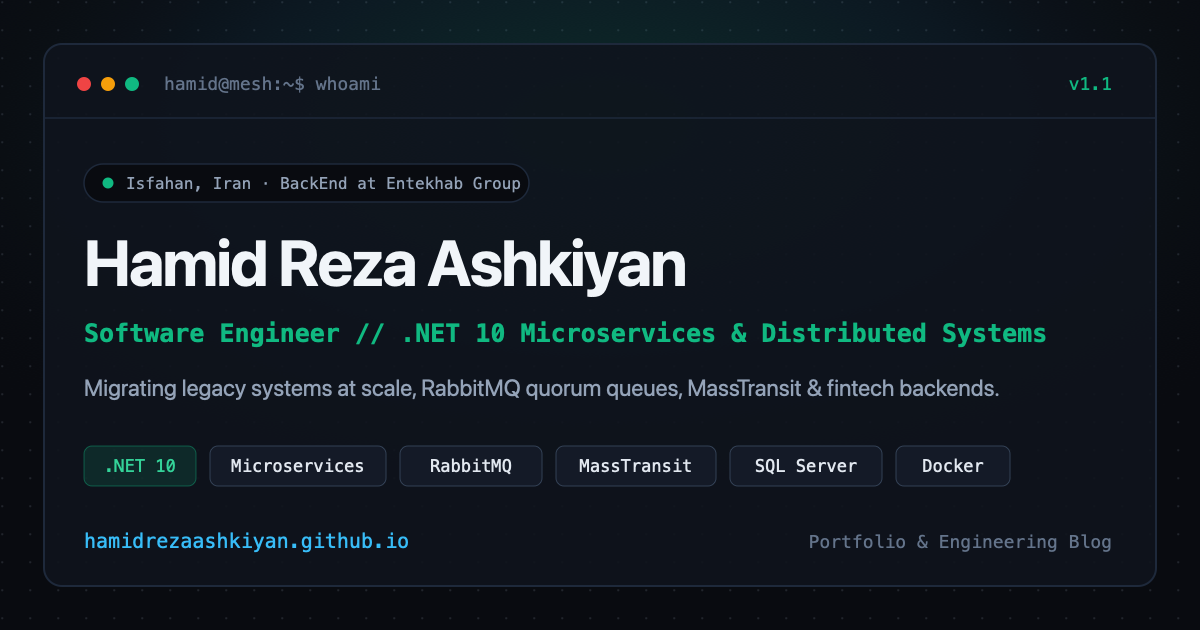
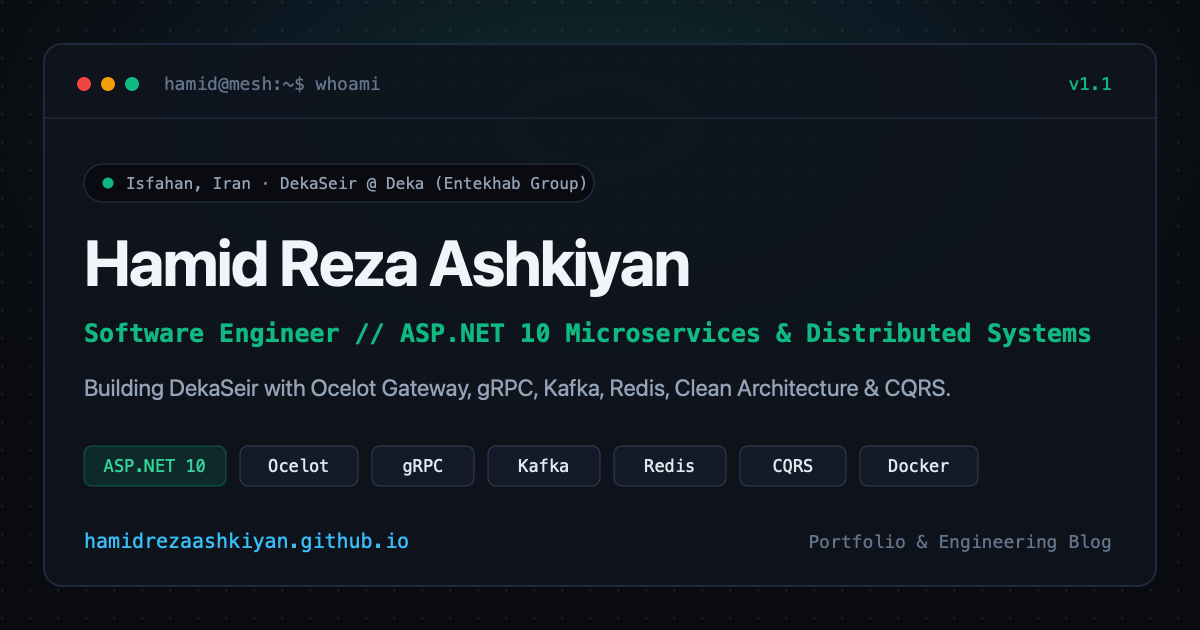
feat: add DekaSeir platform at Deka (Entekhab Group) with Ocelot, gRPC, Kafka, Redis, ASP.NET 10

diff --git a/index.html b/index.html
@@ -36,7 +36,7 @@
     },
     "worksFor": {
       "@type": "Organization",
-      "name": "Entekhab Group"
+      "name": "Deka (Entekhab Group)"
     },
     "alumniOf": {
       "@type": "CollegeOrUniversity",
@@ -48,8 +48,9 @@
       "https://t.me/HamidRezaAshkiyan"
     ],
     "knowsAbout": [
-      ".NET 10", ".NET", "C#", "Microservices", "Domain-Driven Design", "Clean Architecture",
-      "MediatR", "MassTransit", "RabbitMQ", "SQL Server", "Hangfire", "Docker", "Rust"
+      "ASP.NET 10", ".NET", "C#", "Microservices", "Ocelot", "gRPC", "Kafka", "Redis",
+      "CQRS", "Domain-Driven Design", "Clean Architecture", "MediatR", "MassTransit",
+      "RabbitMQ", "SQL Server", "Hangfire", "Docker", "Rust"
     ]
   }
   </script>
@@ -122,15 +123,15 @@
               <div class="hero-avatar" aria-hidden="true">HRA</div>
               <div class="status-pill">
                 <span class="status-dot" aria-hidden="true"></span>
-                <span>Isfahan, Iran · BackEnd Developer at Entekhab Group</span>
+                <span>Isfahan, Iran · Building DekaSeir at Deka (Entekhab Group)</span>
               </div>
             </div>
 
             <h1 class="hero-title">Hamid Reza Ashkiyan</h1>
-            <div class="hero-role">Software Engineer // .NET 10 Microservices &amp; Distributed Systems</div>
+            <div class="hero-role">Software Engineer // ASP.NET 10 Microservices &amp; Distributed Systems</div>
 
             <p class="hero-summary">
-              Specialized in <strong>.NET microservices at scale</strong>, with hands-on experience migrating 15+ legacy services, upgrading high-reliability <strong>RabbitMQ</strong> messaging infrastructure, and integrating <strong>fintech payment gateways</strong> in high-traffic platforms.
+              Currently building the <strong>DekaSeir</strong> microservices platform at <strong>Deka (Entekhab Group)</strong> using <strong>ASP.NET 10</strong>, <strong>Ocelot Gateway</strong>, <strong>gRPC</strong>, <strong>Kafka</strong>, <strong>Redis</strong>, <strong>Clean Architecture</strong>, and <strong>CQRS</strong> — backed by 8+ years of production backend &amp; distributed systems engineering.
             </p>
 
             <blockquote class="hero-quote">
@@ -171,13 +172,13 @@
               </div>
               <pre class="json-output"><code>{
   <span class="json-key">"name"</span>: <span class="json-str">"Hamid Reza Ashkiyan"</span>,
-  <span class="json-key">"role"</span>: <span class="json-str">"BackEnd Developer at Entekhab Group"</span>,
+  <span class="json-key">"role"</span>: <span class="json-str">"BackEnd Developer at Deka (Entekhab Group)"</span>,
+  <span class="json-key">"platform"</span>: <span class="json-str">"DekaSeir (ASP.NET 10 Microservices)"</span>,
   <span class="json-key">"location"</span>: <span class="json-str">"Isfahan, Iran"</span>,
-  <span class="json-key">"backend"</span>: [<span class="json-arr">".NET 10"</span>, <span class="json-arr">"C#"</span>, <span class="json-arr">"DDD"</span>, <span class="json-arr">"Clean Arch"</span>, <span class="json-arr">"MediatR"</span>, <span class="json-arr">"Hangfire"</span>],
-  <span class="json-key">"messaging"</span>: [<span class="json-arr">"RabbitMQ Quorum Queues"</span>, <span class="json-arr">"MassTransit"</span>],
-  <span class="json-key">"data"</span>: [<span class="json-arr">"SQL Server"</span>, <span class="json-arr">"PostgreSQL"</span>, <span class="json-arr">"Redis"</span>],
-  <span class="json-key">"devops"</span>: [<span class="json-arr">"Docker"</span>, <span class="json-arr">"Git"</span>],
-  <span class="json-key">"interests"</span>: [<span class="json-arr">"AI/LLM (Ollama, OpenClaw)"</span>, <span class="json-arr">"Open Source"</span>, <span class="json-arr">"Automation"</span>]
+  <span class="json-key">"backend"</span>: [<span class="json-arr">"ASP.NET 10"</span>, <span class="json-arr">"Ocelot"</span>, <span class="json-arr">"gRPC"</span>, <span class="json-arr">"Clean Arch"</span>, <span class="json-arr">"CQRS"</span>, <span class="json-arr">"DDD"</span>],
+  <span class="json-key">"messaging"</span>: [<span class="json-arr">"Kafka"</span>, <span class="json-arr">"RabbitMQ Quorum"</span>, <span class="json-arr">"MassTransit"</span>],
+  <span class="json-key">"data"</span>: [<span class="json-arr">"SQL Server"</span>, <span class="json-arr">"Redis"</span>, <span class="json-arr">"PostgreSQL"</span>],
+  <span class="json-key">"devops"</span>: [<span class="json-arr">"Docker"</span>, <span class="json-arr">"Git"</span>]
 }</code></pre>
             </div>
           </div>
@@ -217,13 +218,13 @@
         </div>
 
         <div class="timeline">
-          <!-- Entekhab Group -->
+          <!-- Deka / Entekhab Group -->
           <article class="timeline-item current spotlight-card" data-reveal>
             <span class="timeline-dot" aria-hidden="true"></span>
             <div class="exp-header">
               <div>
-                <h3 class="exp-role">BackEnd Developer</h3>
-                <div class="exp-company">Entekhab Group · Isfahan</div>
+                <h3 class="exp-role">BackEnd Developer — DekaSeir Platform</h3>
+                <div class="exp-company">Deka (Sub-brand of Entekhab Group) · Isfahan</div>
               </div>
               <div class="exp-meta">
                 <span class="exp-badge">Current</span>
@@ -231,16 +232,20 @@
               </div>
             </div>
             <ul class="exp-bullets">
-              <li>Designing and scaling distributed backend services and REST APIs using <strong>.NET 10</strong>, <strong>DDD</strong>, and <strong>Clean Architecture</strong>.</li>
-              <li>Building resilient event-driven workflows and high-throughput data pipelines across enterprise systems.</li>
+              <li>Building <strong>DekaSeir</strong>, a distributed <strong>ASP.NET 10</strong> microservices platform fronted by an <strong>Ocelot API Gateway</strong>.</li>
+              <li>Architecting services with <strong>Clean Architecture</strong> and <strong>CQRS</strong>, using <strong>gRPC</strong> for low-latency inter-service communication, <strong>Kafka</strong> for event streaming, and <strong>Redis</strong> for distributed caching.</li>
+              <li>Owning ongoing codebase health, database maintenance, and production reliability across core services.</li>
+              <li>Collaborating closely with cross-functional teams — including the <strong>DevOps</strong> team and <strong>Identity Service</strong> team — to keep all services resilient, integrated, and running smoothly.</li>
             </ul>
             <div class="tag-row">
-              <span class="tech-tag accent">.NET 10</span>
-              <span class="tech-tag accent">Microservices</span>
-              <span class="tech-tag">DDD</span>
+              <span class="tech-tag accent">ASP.NET 10</span>
+              <span class="tech-tag accent">Ocelot Gateway</span>
+              <span class="tech-tag accent">gRPC</span>
+              <span class="tech-tag accent">Kafka</span>
+              <span class="tech-tag">Redis</span>
               <span class="tech-tag">Clean Architecture</span>
-              <span class="tech-tag">SQL Server</span>
-              <span class="tech-tag">Docker</span>
+              <span class="tech-tag">CQRS</span>
+              <span class="tech-tag">Microservices</span>
             </div>
           </article>
 
@@ -403,16 +408,16 @@
             </div>
             <p>High-throughput APIs, domain modeling, and long-lived modular codebases.</p>
             <div class="tag-row">
-              <span class="tech-tag accent">.NET 10 / .NET</span>
+              <span class="tech-tag accent">ASP.NET 10 / .NET</span>
               <span class="tech-tag accent">C#</span>
-              <span class="tech-tag">ASP.NET Core</span>
+              <span class="tech-tag accent">Ocelot Gateway</span>
+              <span class="tech-tag accent">gRPC</span>
               <span class="tech-tag">Microservices</span>
-              <span class="tech-tag">DDD</span>
               <span class="tech-tag">Clean Architecture</span>
-              <span class="tech-tag">MediatR</span>
+              <span class="tech-tag">CQRS &amp; MediatR</span>
+              <span class="tech-tag">DDD</span>
               <span class="tech-tag">Hangfire</span>
-              <span class="tech-tag">EF Core</span>
-              <span class="tech-tag">Dapper</span>
+              <span class="tech-tag">EF Core / Dapper</span>
             </div>
           </div>
 
@@ -421,14 +426,14 @@
               <h3>Data &amp; Messaging</h3>
               <span class="p-num">02</span>
             </div>
-            <p>Fault-tolerant event pipelines, atomic persistence, and query optimization.</p>
+            <p>Fault-tolerant event streaming, atomic persistence, distributed caching, and query optimization.</p>
             <div class="tag-row">
+              <span class="tech-tag accent">Kafka</span>
+              <span class="tech-tag accent">Redis</span>
               <span class="tech-tag accent">SQL Server</span>
-              <span class="tech-tag accent">RabbitMQ (Quorum)</span>
-              <span class="tech-tag accent">MassTransit</span>
+              <span class="tech-tag">RabbitMQ (Quorum)</span>
+              <span class="tech-tag">MassTransit</span>
               <span class="tech-tag">PostgreSQL</span>
-              <span class="tech-tag">Redis</span>
-              <span class="tech-tag">Stored Procedures</span>
               <span class="tech-tag">Transactional Outbox</span>
               <span class="tech-tag">Idempotent Inbox</span>
             </div>
@@ -479,7 +484,7 @@
           <div>
             <span class="section-tag">// 04. System Blueprint</span>
             <h2 class="section-title">Production Microservices Topology</h2>
-            <p class="section-desc">Interactive blueprint of how services coordinate reliably across .NET 10, SQL Server, MassTransit, RabbitMQ Quorum Queues, and Hangfire.</p>
+            <p class="section-desc">Interactive blueprint of how services coordinate across Ocelot Gateway, ASP.NET 10, gRPC, Kafka / RabbitMQ, Redis, and relational storage.</p>
           </div>
         </div>
 
@@ -507,54 +512,54 @@
             <path d="M 530 190 L 530 282 L 675 282" fill="none" stroke="#475569" stroke-width="1.5" class="flow-line-slow" marker-end="url(#arr-green)"/>
 
             <!-- Node 1: Gateway -->
-            <g class="arch-node" tabindex="0" data-title="API Gateway &amp; Edge" data-detail="TLS termination, rate limiting, W3C TraceContext injection, and routing to .NET 10 services.">
+            <g class="arch-node" tabindex="0" data-title="Ocelot API Gateway" data-detail="Unified edge routing, TLS termination, rate limiting, and request aggregation across ASP.NET 10 microservices.">
               <rect x="20" y="115" width="135" height="72" rx="8" fill="url(#nodeGrad)" stroke="#334155" stroke-width="1.4"/>
-              <text x="87" y="146" fill="#f1f5f9" font-family="'JetBrains Mono', monospace" font-size="12" text-anchor="middle" font-weight="600">API Gateway</text>
-              <text x="87" y="166" fill="#64748b" font-family="'JetBrains Mono', monospace" font-size="10" text-anchor="middle">TLS / Rate Limit</text>
+              <text x="87" y="146" fill="#f1f5f9" font-family="'JetBrains Mono', monospace" font-size="12" text-anchor="middle" font-weight="600">Ocelot Gateway</text>
+              <text x="87" y="166" fill="#64748b" font-family="'JetBrains Mono', monospace" font-size="10" text-anchor="middle">Routing / Rate Limit</text>
             </g>
 
             <!-- Node 2: Auth -->
-            <g class="arch-node" tabindex="0" data-title="Auth &amp; Identity" data-detail="OpenID Connect / JWT token validation with Keycloak and fine-grained role policies.">
+            <g class="arch-node" tabindex="0" data-title="Identity Service" data-detail="Centralized OIDC / JWT authentication and authorization coordinated with the Identity Service team.">
               <rect x="208" y="24" width="170" height="68" rx="8" fill="url(#nodeGrad)" stroke="#334155" stroke-width="1.4"/>
-              <text x="293" y="54" fill="#f1f5f9" font-family="'JetBrains Mono', monospace" font-size="12" text-anchor="middle" font-weight="600">Auth &amp; Identity</text>
-              <text x="293" y="73" fill="#38bdf8" font-family="'JetBrains Mono', monospace" font-size="10" text-anchor="middle">Keycloak / OIDC JWT</text>
+              <text x="293" y="54" fill="#f1f5f9" font-family="'JetBrains Mono', monospace" font-size="12" text-anchor="middle" font-weight="600">Identity Service</text>
+              <text x="293" y="73" fill="#38bdf8" font-family="'JetBrains Mono', monospace" font-size="10" text-anchor="middle">OIDC / JWT Auth</text>
             </g>
 
-            <!-- Node 3: Core .NET 10 Service -->
-            <g class="arch-node active" tabindex="0" data-title=".NET 10 Service (MediatR / DDD)" data-detail="Clean Architecture boundaries with DDD aggregates, CQRS command handlers, and Hangfire scheduled jobs.">
+            <!-- Node 3: Core ASP.NET 10 Service -->
+            <g class="arch-node active" tabindex="0" data-title="ASP.NET 10 Service (CQRS / Clean Arch)" data-detail="Clean Architecture boundaries with CQRS handlers, Redis caching, and gRPC endpoints for fast internal calls.">
               <rect x="208" y="180" width="172" height="86" rx="8" fill="url(#nodeGrad)" stroke="#10b981" stroke-width="1.6"/>
-              <text x="294" y="210" fill="#10b981" font-family="'JetBrains Mono', monospace" font-size="12" text-anchor="middle" font-weight="600">.NET 10 Service</text>
-              <text x="294" y="229" fill="#94a3b8" font-family="'JetBrains Mono', monospace" font-size="10" text-anchor="middle">DDD · Clean Arch · MediatR</text>
-              <text x="294" y="247" fill="#64748b" font-family="'JetBrains Mono', monospace" font-size="9.5" text-anchor="middle">Hangfire Background Jobs</text>
+              <text x="294" y="210" fill="#10b981" font-family="'JetBrains Mono', monospace" font-size="12" text-anchor="middle" font-weight="600">ASP.NET 10 Service</text>
+              <text x="294" y="229" fill="#94a3b8" font-family="'JetBrains Mono', monospace" font-size="10" text-anchor="middle">Clean Arch · CQRS · gRPC</text>
+              <text x="294" y="247" fill="#64748b" font-family="'JetBrains Mono', monospace" font-size="9.5" text-anchor="middle">Redis Cache · Hangfire</text>
             </g>
 
-            <!-- Node 4: MassTransit + RabbitMQ -->
-            <g class="arch-node" tabindex="0" data-title="MassTransit + RabbitMQ Quorum Queues" data-detail="Raft-replicated quorum queues for fault tolerance, automatic retries, and dead-letter handling.">
+            <!-- Node 4: Event Broker -->
+            <g class="arch-node" tabindex="0" data-title="Kafka &amp; RabbitMQ Event Bus" data-detail="High-throughput Kafka streams and Raft-replicated RabbitMQ quorum queues for fault-tolerant asynchronous messaging.">
               <rect x="438" y="108" width="188" height="82" rx="8" fill="url(#nodeGrad)" stroke="#38bdf8" stroke-width="1.6"/>
-              <text x="532" y="138" fill="#38bdf8" font-family="'JetBrains Mono', monospace" font-size="12.5" text-anchor="middle" font-weight="600">MassTransit + RabbitMQ</text>
-              <text x="532" y="157" fill="#f1f5f9" font-family="'JetBrains Mono', monospace" font-size="10" text-anchor="middle">Quorum Queues + DLQ</text>
-              <text x="532" y="174" fill="#94a3b8" font-family="'JetBrains Mono', monospace" font-size="9.5" text-anchor="middle">Fault-Tolerant Event Bus</text>
+              <text x="532" y="138" fill="#38bdf8" font-family="'JetBrains Mono', monospace" font-size="12.5" text-anchor="middle" font-weight="600">Kafka / RabbitMQ</text>
+              <text x="532" y="157" fill="#f1f5f9" font-family="'JetBrains Mono', monospace" font-size="10" text-anchor="middle">Event Streams &amp; Queues</text>
+              <text x="532" y="174" fill="#94a3b8" font-family="'JetBrains Mono', monospace" font-size="9.5" text-anchor="middle">Fault-Tolerant Broker</text>
             </g>
 
-            <!-- Node 5: Fintech & Payment Consumer -->
-            <g class="arch-node" tabindex="0" data-title="Payments &amp; Tax Consumers" data-detail="Idempotent MassTransit consumers integrating Zarrinpal, Azkivam, and automated tax registration systems.">
+            <!-- Node 5: Internal gRPC & Event Consumers -->
+            <g class="arch-node" tabindex="0" data-title="Internal Microservices &amp; Workers" data-detail="Peer services communicating over gRPC and idempotent Kafka/MassTransit consumers for payments, bookings, and notifications.">
               <rect x="678" y="42" width="218" height="80" rx="8" fill="url(#nodeGrad)" stroke="#334155" stroke-width="1.4"/>
-              <text x="787" y="72" fill="#f1f5f9" font-family="'JetBrains Mono', monospace" font-size="12" text-anchor="middle" font-weight="600">Payments &amp; Tax Workers</text>
-              <text x="787" y="91" fill="#94a3b8" font-family="'JetBrains Mono', monospace" font-size="10" text-anchor="middle">Zarrinpal · Azkivam · Tax API</text>
-              <text x="787" y="108" fill="#64748b" font-family="'JetBrains Mono', monospace" font-size="9.5" text-anchor="middle">Idempotent Inbox Consumer</text>
+              <text x="787" y="72" fill="#f1f5f9" font-family="'JetBrains Mono', monospace" font-size="12" text-anchor="middle" font-weight="600">Peer Services &amp; Workers</text>
+              <text x="787" y="91" fill="#94a3b8" font-family="'JetBrains Mono', monospace" font-size="10" text-anchor="middle">gRPC Internal · Consumers</text>
+              <text x="787" y="108" fill="#64748b" font-family="'JetBrains Mono', monospace" font-size="9.5" text-anchor="middle">Idempotent Processing</text>
             </g>
 
-            <!-- Node 6: SQL Server & Outbox -->
-            <g class="arch-node" tabindex="0" data-title="SQL Server / PostgreSQL + Outbox" data-detail="Atomic ACID commits storing domain state + outbox events in one transaction, tuned stored procedures &amp; indexes.">
+            <!-- Node 6: Database & Redis -->
+            <g class="arch-node" tabindex="0" data-title="SQL Server / Postgres + Redis" data-detail="ACID persistence with Transactional Outbox, tuned queries &amp; stored procedures, paired with Redis caching.">
               <rect x="678" y="198" width="218" height="96" rx="8" fill="url(#nodeGrad)" stroke="#10b981" stroke-width="1.6"/>
-              <text x="787" y="229" fill="#10b981" font-family="'JetBrains Mono', monospace" font-size="12" text-anchor="middle" font-weight="600">SQL Server / Postgres</text>
-              <text x="787" y="248" fill="#94a3b8" font-family="'JetBrains Mono', monospace" font-size="10" text-anchor="middle">Transactional Outbox Table</text>
-              <text x="787" y="266" fill="#64748b" font-family="'JetBrains Mono', monospace" font-size="9.5" text-anchor="middle">Tuned Stored Procs · EF Core</text>
+              <text x="787" y="229" fill="#10b981" font-family="'JetBrains Mono', monospace" font-size="12" text-anchor="middle" font-weight="600">SQL Server + Redis</text>
+              <text x="787" y="248" fill="#94a3b8" font-family="'JetBrains Mono', monospace" font-size="10" text-anchor="middle">Outbox · Distributed Cache</text>
+              <text x="787" y="266" fill="#64748b" font-family="'JetBrains Mono', monospace" font-size="9.5" text-anchor="middle">EF Core · Tuned Queries</text>
             </g>
           </svg>
 
           <div class="arch-inspector">
-            <span id="arch-inspector-text"><strong>.NET 10 Service (MediatR / DDD)</strong> — Clean Architecture boundaries with DDD aggregates, CQRS command handlers, and Hangfire scheduled jobs.</span>
+            <span id="arch-inspector-text"><strong>ASP.NET 10 Service (CQRS / Clean Arch)</strong> — Clean Architecture boundaries with CQRS handlers, Redis caching, and gRPC endpoints for fast internal calls.</span>
             <span style="color:#64748b;">Hover or click any node to inspect</span>
           </div>
         </div>
@@ -603,6 +608,33 @@
         </div>
 
         <div class="projects-grid">
+          <!-- DekaSeir -->
+          <article class="project-card spotlight-card" data-category="backend" data-reveal>
+            <div>
+              <div class="project-meta">
+                <span class="project-category">Active Production Platform</span>
+                <span class="project-lang">ASP.NET 10 · gRPC · Kafka</span>
+              </div>
+              <h3 class="project-title">DekaSeir — Microservices Platform</h3>
+              <p class="project-desc">
+                Distributed microservices platform at Deka (Entekhab Group) built on ASP.NET 10 with Ocelot API Gateway, Clean Architecture, CQRS, gRPC inter-service communication, Kafka, and Redis — maintained in close coordination with DevOps and Identity teams.
+              </p>
+            </div>
+            <div class="project-bottom">
+              <div class="tag-row">
+                <span class="tech-tag accent">ASP.NET 10</span>
+                <span class="tech-tag accent">Ocelot</span>
+                <span class="tech-tag">gRPC</span>
+                <span class="tech-tag">Kafka</span>
+                <span class="tech-tag">Redis</span>
+                <span class="tech-tag">CQRS</span>
+              </div>
+              <div class="project-links">
+                <span style="font-family:var(--font-mono);font-size:0.76rem;color:var(--accent-green);">Deka · Entekhab Group (Current)</span>
+              </div>
+            </div>
+          </article>
+
           <!-- ModularMonolith -->
           <article class="project-card spotlight-card" data-category="backend" data-reveal>
             <div>

diff --git a/js/main.js b/js/main.js
@@ -409,8 +409,8 @@
         appendLine(
           "Hamid Reza Ashkiyan — Software Engineer (Backend & Distributed Systems)\n" +
             "Location:  Isfahan, Iran\n" +
-            "Current:   BackEnd Developer at Entekhab Group\n" +
-            "Focus:     .NET 10 microservices at scale, legacy migrations, distributed systems\n" +
+            "Current:   BackEnd Developer @ Deka (Entekhab Group) — Building DekaSeir\n" +
+            "Focus:     ASP.NET 10, Ocelot Gateway, gRPC, Kafka, Redis, Clean Arch, CQRS\n" +
             'Quote:     "Write code that\'s easy to change, not just easy to write."',
           "output",
           logsEl
@@ -419,9 +419,11 @@
 
       case "experience":
         appendLine(
-          "[Current]      BackEnd Developer at Entekhab Group (Isfahan)\n" +
-            "  • Designing & scaling distributed backend services with .NET 10, DDD & Clean Architecture\n\n" +
-            "[2022–2026]    BackEnd Developer at MrBilit (Isfahan)\n" +
+          "[Current]      BackEnd Developer @ Deka (Entekhab Group) — DekaSeir Platform\n" +
+            "  • ASP.NET 10 microservices with Ocelot Gateway, Clean Architecture & CQRS\n" +
+            "  • gRPC inter-service communication, Kafka event streaming & Redis caching\n" +
+            "  • Maintaining code/DBs & collaborating with DevOps & Identity Service teams\n\n" +
+            "[2022–2026]    BackEnd Developer @ MrBilit (Isfahan)\n" +
             "  • Migrated 15+ services to modern .NET with DDD & microservices\n" +
             "  • Integrated Zarrinpal, Azkivam & automated tax registration\n" +
             "  • Upgraded RabbitMQ to quorum queues with MassTransit; Hangfire + Docker\n\n" +
@@ -456,8 +458,8 @@
 
       case "skills":
         appendLine(
-          "Backend:   .NET 10 / .NET, C#, ASP.NET Core, DDD, Clean Architecture, MediatR, Hangfire\n" +
-            "Data/Msg:  SQL Server, PostgreSQL, Redis, RabbitMQ (Quorum Queues), MassTransit\n" +
+          "Backend:   ASP.NET 10 / .NET, C#, Ocelot Gateway, gRPC, Clean Arch, CQRS, DDD, MediatR, Hangfire\n" +
+            "Data/Msg:  Kafka, Redis, SQL Server, PostgreSQL, RabbitMQ (Quorum Queues), MassTransit\n" +
             "DevOps:    Docker, Docker Compose, Git, Keycloak (OIDC/JWT), OpenTelemetry\n" +
             "Systems:   Rust, Swift, Python, WPF, Java (Spring Boot), Laravel\n" +
             "Interests: AI/LLM Integration (Ollama, OpenClaw), Open Source, Workflow Automation",
@@ -468,14 +470,15 @@
 
       case "projects":
         appendLine(
-          "1. ModularMonolith         ASP.NET Core (.NET 10), Clean Arch, DDD, MediatR, MassTransit\n" +
-            "2. Hafez                   2-year large-scale WPF system, hardware control & mobile remote\n" +
-            "3. Social Platform         Clean Architecture, Spring Boot, React, GraphQL, JWT, Docker\n" +
-            "4. aegis                   Rust system-wide ad/tracker/telemetry blocker (macOS & Win)\n" +
-            "5. ophiuchi-rs             Rust localhost SSL reverse proxy & Local Root CA\n" +
-            "6. folio                   Rust Bullet Journal (TUI + GUI) backed by Obsidian Markdown\n" +
-            "7. PadDisplay              iPad second monitor for macOS (Swift) & Windows (C# IddCx)\n" +
-            "8. PersianKeyboardRedefined Redesigned Persian keyboard layout (9★)",
+          "1. DekaSeir                ASP.NET 10 microservices, Ocelot, gRPC, Kafka, Redis, CQRS (Deka / Entekhab)\n" +
+            "2. ModularMonolith         ASP.NET Core (.NET 10), Clean Arch, DDD, MediatR, MassTransit\n" +
+            "3. Hafez                   2-year large-scale WPF system, hardware control & mobile remote\n" +
+            "4. Social Platform         Clean Architecture, Spring Boot, React, GraphQL, JWT, Docker\n" +
+            "5. aegis                   Rust system-wide ad/tracker/telemetry blocker (macOS & Win)\n" +
+            "6. ophiuchi-rs             Rust localhost SSL reverse proxy & Local Root CA\n" +
+            "7. folio                   Rust Bullet Journal (TUI + GUI) backed by Obsidian Markdown\n" +
+            "8. PadDisplay              iPad second monitor for macOS (Swift) & Windows (C# IddCx)\n" +
+            "9. PersianKeyboardRedefined Redesigned Persian keyboard layout (9★)",
           "output",
           logsEl
         );
@@ -495,16 +498,13 @@
 
       case "arch":
         appendLine(
-          "[Gateway] -> [Auth/OIDC] -> [.NET 10 Service (MediatR/DDD)]\n" +
-            "                                 |                   |\n" +
-            "                                 v                   v\n" +
-            "                       [SQL Server + Outbox]   [Hangfire Jobs]\n" +
-            "                                 |\n" +
-            "                                 v\n" +
-            "                  [MassTransit + RabbitMQ Quorum Queues]\n" +
-            "                                 |\n" +
-            "                                 v\n" +
-            "              [Payments Consumer: Zarrinpal / Azkivam / Tax]",
+          "[Ocelot Gateway] -> [Identity Service] -> [ASP.NET 10 Service (CQRS/Clean Arch)]\n" +
+            "                                               | (gRPC)             | (Cache)\n" +
+            "                                               v                    v\n" +
+            "                                    [Peer Services]            [Redis + SQL Server]\n" +
+            "                                               |\n" +
+            "                                               v\n" +
+            "                                   [Kafka / RabbitMQ Event Bus]",
           "output",
           logsEl
         );

diff --git a/resume.html b/resume.html
@@ -64,7 +64,7 @@
     <section class="resume-sec">
       <h2>Summary</h2>
       <p style="color:var(--text-secondary);">
-        Software Engineer specialized in modern .NET microservices at scale, with hands-on experience migrating 15+ legacy services, upgrading high-reliability RabbitMQ messaging infrastructure, and integrating fintech payment systems in high-traffic platforms.
+        Software Engineer currently building the DekaSeir microservices platform at Deka (Entekhab Group) using ASP.NET 10, Ocelot Gateway, gRPC, Kafka, Redis, Clean Architecture, and CQRS — backed by 8+ years of experience migrating legacy systems and building resilient distributed backends.
       </p>
     </section>
 
@@ -73,12 +73,13 @@
 
       <div class="resume-entry">
         <div class="resume-entry-head">
-          <h3>BackEnd Developer — Entekhab Group</h3>
+          <h3>BackEnd Developer — DekaSeir Platform · Deka (Entekhab Group)</h3>
           <span>Isfahan · Present</span>
         </div>
         <ul class="exp-bullets">
-          <li>Designing and scaling distributed backend services and REST APIs using <strong>.NET 10</strong>, <strong>DDD</strong>, and <strong>Clean Architecture</strong>.</li>
-          <li>Building resilient event-driven workflows and high-throughput data pipelines across enterprise systems.</li>
+          <li>Building <strong>DekaSeir</strong>, a distributed <strong>ASP.NET 10</strong> microservices platform fronted by an <strong>Ocelot API Gateway</strong>.</li>
+          <li>Architecting services with <strong>Clean Architecture</strong> and <strong>CQRS</strong>, using <strong>gRPC</strong> for inter-service communication, <strong>Kafka</strong> for event streaming, and <strong>Redis</strong> for distributed caching.</li>
+          <li>Responsible for maintaining the backend codebase, databases, and service reliability in collaboration with the <strong>DevOps</strong> and <strong>Identity Service</strong> teams.</li>
         </ul>
       </div>
 
@@ -134,8 +135,8 @@
       <h2>Skills</h2>
       <div class="resume-cols" style="color:var(--text-secondary); font-size:0.92rem;">
         <div>
-          <p><strong style="color:var(--text-primary);">Backend:</strong> .NET 10 / .NET, C#, ASP.NET Core, Microservices, DDD, Clean Architecture, MediatR, Hangfire, EF Core, Dapper</p>
-          <p style="margin-top:0.6rem;"><strong style="color:var(--text-primary);">Data &amp; Messaging:</strong> SQL Server, PostgreSQL, Redis, RabbitMQ (Quorum Queues), MassTransit</p>
+          <p><strong style="color:var(--text-primary);">Backend:</strong> ASP.NET 10 / .NET, C#, Ocelot API Gateway, gRPC, Microservices, Clean Architecture, CQRS, DDD, MediatR, Hangfire, EF Core, Dapper</p>
+          <p style="margin-top:0.6rem;"><strong style="color:var(--text-primary);">Data &amp; Messaging:</strong> Kafka, Redis, SQL Server, PostgreSQL, RabbitMQ (Quorum Queues), MassTransit</p>
         </div>
         <div>
           <p><strong style="color:var(--text-primary);">DevOps &amp; Tools:</strong> Docker, Docker Compose, Git, Keycloak (OIDC/JWT), OpenTelemetry, Serilog</p>
